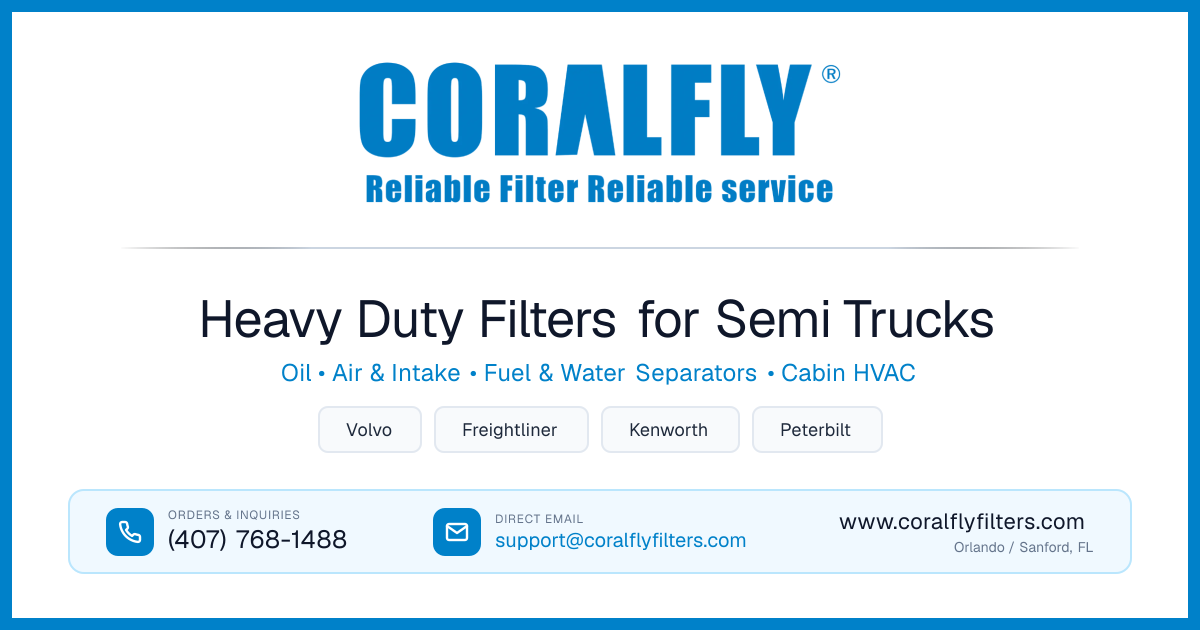
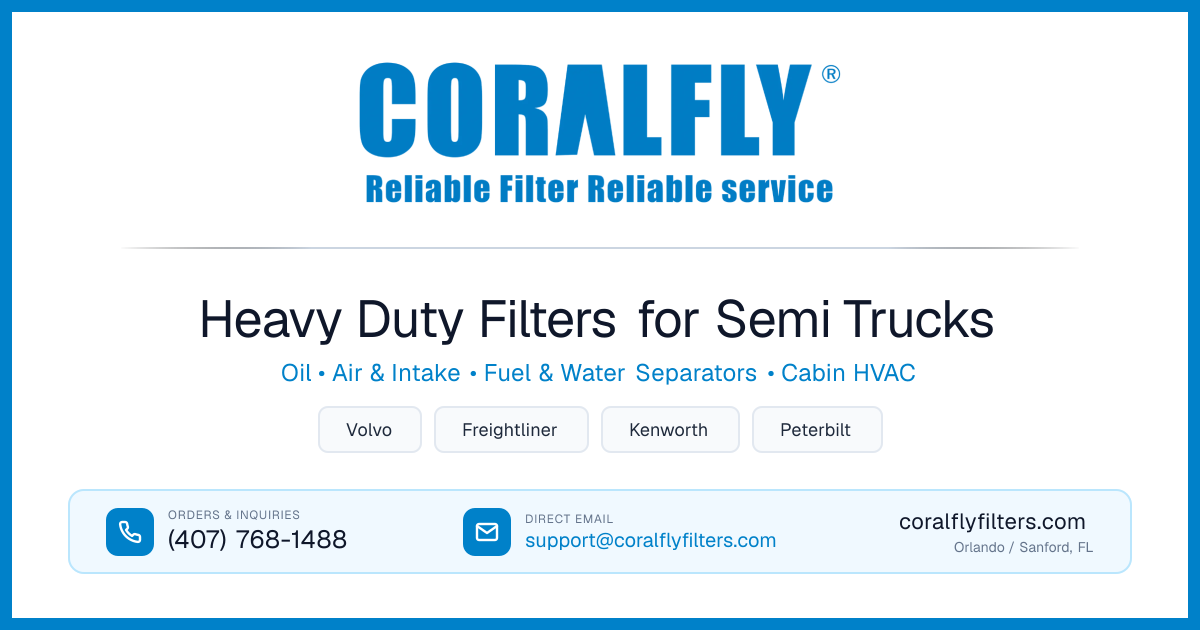
fix: update metadataBase and social image URLs to apex domain coralflyfilters.com

Changed region(s): [[0.3392, 0.7841, 0.6475, 0.9048], [0.6783, 0.8143, 0.925, 0.8444]]

diff --git a/src/app/layout.tsx b/src/app/layout.tsx
@@ -10,7 +10,7 @@ const roboto = Roboto({
 });
 
 export const metadata: Metadata = {
-  metadataBase: new URL("https://www.coralflyfilters.com"),
+  metadataBase: new URL("https://coralflyfilters.com"),
   title: {
     default: "CORALFLY | Heavy Duty Filters for Semi Trucks",
     template: "%s | CORALFLY",
@@ -21,13 +21,13 @@ export const metadata: Metadata = {
     title: "CORALFLY | Heavy Duty Filters for Semi Trucks",
     description:
       "Heavy duty commercial semi truck filters — Oil, Air, Fuel, and Cabin filters for Volvo, Freightliner, Kenworth, and Peterbilt.",
-    url: "https://www.coralflyfilters.com",
+    url: "https://coralflyfilters.com",
     siteName: "CORALFLY Filters",
     locale: "en_US",
     type: "website",
     images: [
       {
-        url: "/images/og-business-card.png",
+        url: "https://coralflyfilters.com/images/og-business-card.png",
         width: 1200,
         height: 630,
         alt: "CORALFLY - Heavy Duty Filters for Semi Trucks",
@@ -39,7 +39,7 @@ export const metadata: Metadata = {
     title: "CORALFLY | Heavy Duty Filters for Semi Trucks",
     description:
       "Heavy duty commercial semi truck filters — Oil, Air, Fuel, and Cabin filters for Volvo, Freightliner, Kenworth, and Peterbilt.",
-    images: ["/images/og-business-card.png"],
+    images: ["https://coralflyfilters.com/images/og-business-card.png"],
   },
   icons: {
     icon: [
@@ -57,11 +57,11 @@ const storeJsonLd = {
   "@graph": [
     {
       "@type": "AutoPartsStore",
-      "@id": "https://www.coralflyfilters.com/#store",
+      "@id": "https://coralflyfilters.com/#store",
       name: "CORALFLY Filters",
-      url: "https://www.coralflyfilters.com",
-      logo: "https://www.coralflyfilters.com/brand/logo.png",
-      image: "https://www.coralflyfilters.com/images/banners/banner1.jpg",
+      url: "https://coralflyfilters.com",
+      logo: "https://coralflyfilters.com/brand/logo.png",
+      image: "https://coralflyfilters.com/images/banners/banner1.jpg",
       telephone: "+1-407-768-1488",
       email: "support@coralflyfilters.com",
       address: {
@@ -92,15 +92,15 @@ const storeJsonLd = {
     },
     {
       "@type": "WebSite",
-      "@id": "https://www.coralflyfilters.com/#website",
-      url: "https://www.coralflyfilters.com",
+      "@id": "https://coralflyfilters.com/#website",
+      url: "https://coralflyfilters.com",
       name: "CORALFLY Filters",
       publisher: {
-        "@id": "https://www.coralflyfilters.com/#store",
+        "@id": "https://coralflyfilters.com/#store",
       },
       potentialAction: {
         "@type": "SearchAction",
-        target: "https://www.coralflyfilters.com/shop?q={search_term_string}",
+        target: "https://coralflyfilters.com/shop?q={search_term_string}",
         "query-input": "required name=search_term_string",
       },
     },

diff --git a/src/app/sitemap.ts b/src/app/sitemap.ts
@@ -4,7 +4,7 @@ import { guides } from "@/lib/guides";
 import { getCatalogCategories, getCatalogMakes, isFilterCategory } from "@/lib/catalog";
 
 export default async function sitemap(): Promise<MetadataRoute.Sitemap> {
-  const baseUrl = process.env.NEXT_PUBLIC_SITE_URL || "https://www.coralflyfilters.com";
+  const baseUrl = process.env.NEXT_PUBLIC_SITE_URL || "https://coralflyfilters.com";
   const now = new Date();
 
   // Static core routes

diff --git a/src/components/ProductDetailClient.tsx b/src/components/ProductDetailClient.tsx
@@ -165,7 +165,7 @@ export function ProductDetailClient({
     },
     offers: {
       "@type": "Offer",
-      url: `https://www.coralflyfilters.com/shop/${product.slug}`,
+      url: `https://coralflyfilters.com/shop/${product.slug}`,
       priceCurrency: (product.currency || "USD").toUpperCase(),
       price: product.price,
       itemCondition: "https://schema.org/NewCondition",

diff --git a/src/app/robots.ts b/src/app/robots.ts
@@ -1,7 +1,7 @@
 import type { MetadataRoute } from "next";
 
 export default function robots(): MetadataRoute.Robots {
-  const baseUrl = process.env.NEXT_PUBLIC_SITE_URL || "https://www.coralflyfilters.com";
+  const baseUrl = process.env.NEXT_PUBLIC_SITE_URL || "https://coralflyfilters.com";
 
   return {
     rules: [

diff --git a/src/app/opengraph-image.tsx b/src/app/opengraph-image.tsx
@@ -267,7 +267,7 @@ export default async function OpenGraphImage() {
                 letterSpacing: "0.02em",
               }}
             >
-              www.coralflyfilters.com
+              coralflyfilters.com
             </span>
             <span
               style={{
